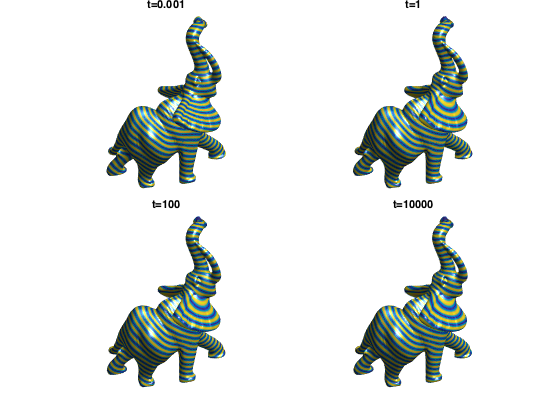
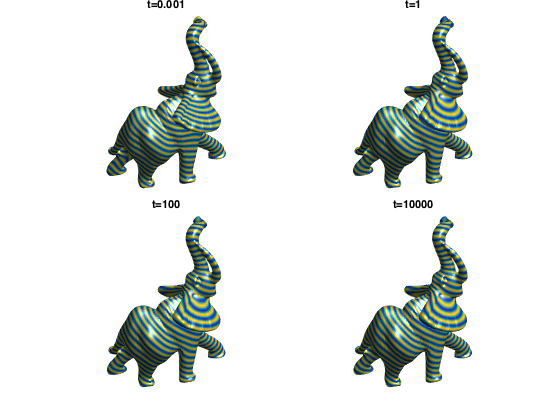
updated poisson geodesic tour

diff --git a/matlab/meshproc_7_geodesic_poisson/index.html b/matlab/meshproc_7_geodesic_poisson/index.html
@@ -146,7 +146,7 @@ To make changes, update the M-file and republish this document.
          <HR>
       </NOSCRIPT>
       <meta name="generator" content="MATLAB 8.4">
-      <meta name="date" content="2014-11-23">
+      <meta name="date" content="2014-11-27">
       <meta name="m-file" content="index">
       <LINK REL="stylesheet" HREF="../style.css" TYPE="text/css">
    </head>
@@ -162,9 +162,9 @@ To make changes, update the M-file and republish this document.
             <ul>
                <li><a href="#1">Installing toolboxes and setting up the path.</a></li>
                <li><a href="#8">Gradient, Divergence and Laplacian on Surfaces</a></li>
-               <li><a href="#25">Heat Diffusion and Time Stepping</a></li>
-               <li><a href="#32">Geodesic in Heat Method</a></li>
-               <li><a href="#43">Bibliography</a></li>
+               <li><a href="#30">Heat Diffusion and Time Stepping</a></li>
+               <li><a href="#37">Geodesic in Heat Method</a></li>
+               <li><a href="#48">Bibliography</a></li>
             </ul>
          </div>
          <h2>Installing toolboxes and setting up the path.<a name="1"></a></h2>
@@ -209,8 +209,10 @@ axis(<span class="string">'tight'</span>);
          </p>
          <p>Callback to get the coordinates of all the vertex of index \(i=1,2,3\) in all faces.</p><pre class="codeinput">XF = @(i)X(:,F(i,:));
 </pre><p>Compute un-normalized normal through the formula \(e_1 \wedge e_2 \) where \(e_i\) are the edges.</p><pre class="codeinput">Na = cross( XF(2)-XF(1), XF(3)-XF(1) );
-</pre><p>Compute the area of each face as half the norm of the cross product.</p><pre class="codeinput">A = sqrt( sum( Na.^2 ) )/2;
-</pre><p>Compute the set of unit-norm normals to each face.</p><pre class="codeinput">N = Na ./ repmat(2*A, [3 1]);
+</pre><p>Compute the area of each face as half the norm of the cross product.</p><pre class="codeinput">amplitude = @(X)sqrt( sum( X.^2 ) );
+A = amplitude(Na)/2;
+</pre><p>Compute the set of unit-norm normals to each face.</p><pre class="codeinput">normalize = @(X)X ./ repmat(amplitude(X), [3 1]);
+N = normalize(Na);
 </pre><p>Populate the sparse entries of the matrices for the operator implementing \( \sum_{i \in f} u_i (N_f \wedge e_i) \).</p><pre class="codeinput">I = []; J = []; V = []; <span class="comment">% indexes to build the sparse matrices</span>
 <span class="keyword">for</span> i=1:3
     <span class="comment">% opposite edge e_i indexes</span>
@@ -224,24 +226,53 @@ axis(<span class="string">'tight'</span>);
     V = [V, wi];
 <span class="keyword">end</span>
 </pre><p>Sparse matrix with entries \(1/(2A_f)\).</p><pre class="codeinput">dA = spdiags(1./(2*A(:)),0,m,m);
-</pre><p>Compute each \(\nabla_s\) matrix.</p><pre class="codeinput">G = {};
+</pre><p>Compute gradient.</p><pre class="codeinput">GradMat = {};
 <span class="keyword">for</span> k=1:3
-    G{k} = dA*sparse(I,J,V(k,:),m,n);
+    GradMat{k} = dA*sparse(I,J,V(k,:),m,n);
 <span class="keyword">end</span>
-</pre><p>Grad and div operators.</p><pre class="codeinput">Grad = @(u)[G{1}*u, G{2}*u, G{3}*u]';
-Div = @(q)G{1}'*q(1,:)' + G{2}'*q(2,:)' + G{3}'*q(3,:)';
-</pre><p>Laplacian matrix</p><pre class="codeinput">Delta = G{1}'*G{1} + G{2}'*G{2} + G{3}'*G{3};
+</pre><p>\(\nabla\) gradient operator.</p><pre class="codeinput">Grad = @(u)[GradMat{1}*u, GradMat{2}*u, GradMat{3}*u]';
+</pre><p>Compute divergence matrices as transposed of grad for the face area inner product.</p><pre class="codeinput">dAf = spdiags(2*A(:),0,m,m);
+DivMat = {GradMat{1}'*dAf, GradMat{2}'*dAf, GradMat{3}'*dAf};
+</pre><p>Div operator.</p><pre class="codeinput">Div = @(q)DivMat{1}*q(1,:)' + DivMat{2}*q(2,:)' + DivMat{3}*q(3,:)';
+</pre><p>Laplacian operator as the composition of grad and div.</p><pre class="codeinput">Delta = DivMat{1}*GradMat{1} + DivMat{2}*GradMat{2} + DivMat{3}*GradMat{3};
+</pre><p>Cotan of an angle between two vectors.</p><pre class="codeinput">cota = @(a,b)cot( acos( dot(normalize(a),normalize(b)) ) );
+</pre><p>Compute cotan weights Laplacian.</p><pre class="codeinput">I = []; J = []; V = []; <span class="comment">% indexes to build the sparse matrices</span>
+Ia = []; Va = []; <span class="comment">% area of vertices</span>
+<span class="keyword">for</span> i=1:3
+    <span class="comment">% opposite edge e_i indexes</span>
+    s = mod(i,3)+1;
+    t = mod(i+1,3)+1;
+    <span class="comment">% adjacent edge</span>
+    ctheta = cota(XF(s)-XF(i), XF(t)-XF(i));
+    <span class="comment">% ctheta = max(ctheta, 1e-2); % avoid degeneracy</span>
+    <span class="comment">% update the index listing</span>
+    I = [I, F(s,:), F(t,:)];
+    J = [J, F(t,:), F(s,:)];
+    V = [V, ctheta, ctheta];
+    <span class="comment">% update the diagonal with area of face around vertices</span>
+    Ia = [Ia, F(i,:)];
+    Va = [Va, A];
+<span class="keyword">end</span>
+<span class="comment">% Aread diagonal matrix</span>
+Ac = sparse(Ia,Ia,Va,n,n);
+<span class="comment">% Cotan weights</span>
+Wc = sparse(I,J,V,n,n);
+<span class="comment">% Laplacian with cotan weights.</span>
+DeltaCot = spdiags(full(sum(Wc))', 0, n,n) - Wc;
+</pre><p>Check that the Laplacian with cotan weights is actually equal to the composition of divergence and gradient.</p><pre class="codeinput">fprintf(<span class="string">'Should be 0: %e\n'</span>, norm(Delta-DeltaCot, <span class="string">'fro'</span>)/norm(Delta, <span class="string">'fro'</span>));
+</pre><pre class="codeoutput">Should be 0: 1.604879e-10
 </pre><p>Display a function \(f\) on the mesh.</p><pre class="codeinput">f = X(2,:);
 options.face_vertex_color = f(:);
 clf; plot_mesh(X,F,options);
 axis(<span class="string">'tight'</span>);
 colormap <span class="string">parula(256)</span>;
-</pre><img vspace="5" hspace="5" src="index_02.png"> <p>Display its Laplacian.</p><pre class="codeinput">g = clamp(Delta*f(:), -50, 50);
+</pre><img vspace="5" hspace="5" src="index_02.png"> <p>Display its Laplacian.</p><pre class="codeinput">g = Delta*f(:);
+g = clamp(g, -3*std(g), 3*std(g));
 options.face_vertex_color = rescale(g);
 clf; plot_mesh(X,F,options);
 axis(<span class="string">'tight'</span>);
 colormap <span class="string">parula(256)</span>;
-</pre><img vspace="5" hspace="5" src="index_03.png"> <h2>Heat Diffusion and Time Stepping<a name="25"></a></h2>
+</pre><img vspace="5" hspace="5" src="index_03.png"> <h2>Heat Diffusion and Time Stepping<a name="30"></a></h2>
          <p>The method developped in <a href="#biblio">[CraneWeischedelWardetzky13]</a> relies on the fact that the level set of the geodesic distance function to a starting point \(i\) agrees with the level set
             of the solution of the heat diffusion when the time of diffusion tends to zero. This fundamental result is proved in <a href="#biblio">[Varadhan67]</a>.
          </p>
@@ -253,23 +284,23 @@ colormap <span class="string">parula(256)</span>;
 </pre><p>Set time \(t\).</p><pre class="codeinput">t = 1000;
 </pre><p>Solve the linear system.</p><pre class="codeinput">delta = zeros(n,1);
 delta(i) = 1;
-u = (speye(n)+t*Delta)\delta;
+u = (Ac+t*Delta)\delta;
 </pre><p>Display this solution.</p><pre class="codeinput">options.face_vertex_color = u;
 clf; plot_mesh(X,F,options);
 axis(<span class="string">'tight'</span>);
 colormap <span class="string">parula(256)</span>;
 </pre><img vspace="5" hspace="5" src="index_04.png"> <p><i>Exercice 1:</i> (<a href="../missing-exo/">check the solution</a>) Solve the heat diffusion equation \[ \frac{\partial g}{\partial t} = -\Delta g \] by performing several implicit time stepping.
          </p><pre class="codeinput">exo1;
-</pre><img vspace="5" hspace="5" src="index_05.png"> <h2>Geodesic in Heat Method<a name="32"></a></h2>
+</pre><img vspace="5" hspace="5" src="index_05.png"> <h2>Geodesic in Heat Method<a name="37"></a></h2>
          <p>The main point of the method <a href="#biblio">[CraneWeischedelWardetzky13]</a> is to retrieve an approximation of the distance function \(\phi\) from the level set of implicit heat diffusion step \(u\).
          </p>
          <p>This is achieved by using the fact that \(\norm{\nabla \phi}=1\), i.e. one should have \[ \nabla \phi \approx -\frac{\nabla
             u}{\norm{\nabla u}}. \] Solving this equation in the least square sense leads to the resolution of a Poisson equation.
          </p>
          <p>Compute the solution \(u\) with explicit time stepping.</p><pre class="codeinput">t = .1;
-u = (speye(n)+t*Delta)\delta;
+u = (Ac+t*DeltaCot)\delta;
 </pre><p>Compute the gradient field.</p><pre class="codeinput">g = Grad(u);
-</pre><p>Normalize it to obtain \[ h = -\frac{\nabla u}{\norm{\nabla u}}. \]</p><pre class="codeinput">h = -g ./ repmat( sqrt(sum(g.^2)), [3 1] );
+</pre><p>Normalize it to obtain \[ h = -\frac{\nabla u}{\norm{\nabla u}}. \]</p><pre class="codeinput">h = -normalize(g);
 </pre><p>Integrate it back by solving \[ \Delta \phi = \text{div}(h).  \]</p><pre class="codeinput">phi = Delta \ Div(h);
 </pre><p>Display.</p><pre class="codeinput">options.face_vertex_color = phi;
 clf; plot_mesh(X,F,options);
@@ -285,13 +316,13 @@ colormap <span class="string">parula(256)</span>;
          </p><pre class="codeinput">exo2;
 </pre><img vspace="5" hspace="5" src="index_08.png"> <p><i>Exercice 3:</i> (<a href="../missing-exo/">check the solution</a>) Compute distances from an increasing number of starting points that are computed using a farthest point sampling.
          </p><pre class="codeinput">exo3;
-</pre><img vspace="5" hspace="5" src="index_09.png"> <h2>Bibliography<a name="43"></a></h2>
+</pre><img vspace="5" hspace="5" src="index_09.png"> <h2>Bibliography<a name="48"></a></h2>
          <p><a name="biblio"></a></p>
          <div>
             <ul>
                <li>[CraneWeischedelWardetzky13] K. Crane, C. Weischedel, M. Wardetzky, <i>Geodesics in heat: A new approach to computing distance based on heat flow</i>, ACM Transactions on Graphics , vol. 32, no. 5, pp. 152:1-152:11, 2013.
                </li>
-               <li>[Varadhan67] S.R.S. Varadhan, <i>On the behavior of the fundamental solution of the heat equation with variable coefficients</i> Communications on Pure and Applied Mathematics 20, 2, 431?455, 1967
+               <li>[Varadhan67] S.R.S. Varadhan, <i>On the behavior of the fundamental solution of the heat equation with variable coefficients</i> Communications on Pure and Applied Mathematics 20, 2, 431-455, 1967
                </li>
             </ul>
          </div>
@@ -401,12 +432,14 @@ Na = cross( XF(2)-XF(1), XF(3)-XF(1) );
 %%
 % Compute the area of each face as half the norm of the cross product.
 
-A = sqrt( sum( Na.^2 ) )/2;
+amplitude = @(X)sqrt( sum( X.^2 ) );
+A = amplitude(Na)/2;
 
 %%
 % Compute the set of unit-norm normals to each face.
 
-N = Na ./ repmat(2*A, [3 1]);
+normalize = @(X)X ./ repmat(amplitude(X), [3 1]);
+N = normalize(Na);
 
 %%
 % Populate the sparse entries of the matrices for the 
@@ -431,23 +464,71 @@ end
 dA = spdiags(1./(2*A(:)),0,m,m); 
 
 %%
-% Compute each \(\nabla_s\) matrix. 
+% Compute gradient.
 
-G = {};
+GradMat = {};
 for k=1:3
-    G{k} = dA*sparse(I,J,V(k,:),m,n);
+    GradMat{k} = dA*sparse(I,J,V(k,:),m,n);
 end
 
 %%
-% Grad and div operators.
+% \(\nabla\) gradient operator.
 
-Grad = @(u)[G{1}*u, G{2}*u, G{3}*u]';
-Div = @(q)G{1}'*q(1,:)' + G{2}'*q(2,:)' + G{3}'*q(3,:)';
+Grad = @(u)[GradMat{1}*u, GradMat{2}*u, GradMat{3}*u]';
 
 %%
-% Laplacian matrix
+% Compute divergence matrices as transposed of grad for the face area inner product.
 
-Delta = G{1}'*G{1} + G{2}'*G{2} + G{3}'*G{3};
+dAf = spdiags(2*A(:),0,m,m); 
+DivMat = {GradMat{1}'*dAf, GradMat{2}'*dAf, GradMat{3}'*dAf};
+
+%%
+% Div operator. 
+
+Div = @(q)DivMat{1}*q(1,:)' + DivMat{2}*q(2,:)' + DivMat{3}*q(3,:)';
+
+%%
+% Laplacian operator as the composition of grad and div. 
+
+Delta = DivMat{1}*GradMat{1} + DivMat{2}*GradMat{2} + DivMat{3}*GradMat{3};
+
+%%
+% Cotan of an angle between two vectors.
+
+cota = @(a,b)cot( acos( dot(normalize(a),normalize(b)) ) );
+
+%%
+% Compute cotan weights Laplacian. 
+
+I = []; J = []; V = []; % indexes to build the sparse matrices
+Ia = []; Va = []; % area of vertices
+for i=1:3
+    % opposite edge e_i indexes
+    s = mod(i,3)+1;
+    t = mod(i+1,3)+1;
+    % adjacent edge
+    ctheta = cota(XF(s)-XF(i), XF(t)-XF(i));
+    % ctheta = max(ctheta, 1e-2); % avoid degeneracy
+    % update the index listing
+    I = [I, F(s,:), F(t,:)];
+    J = [J, F(t,:), F(s,:)]; 
+    V = [V, ctheta, ctheta];
+    % update the diagonal with area of face around vertices
+    Ia = [Ia, F(i,:)];
+    Va = [Va, A]; 
+end
+% Aread diagonal matrix
+Ac = sparse(Ia,Ia,Va,n,n);
+% Cotan weights
+Wc = sparse(I,J,V,n,n);
+% Laplacian with cotan weights.
+DeltaCot = spdiags(full(sum(Wc))', 0, n,n) - Wc;
+
+%%
+% Check that the Laplacian with cotan weights is actually equal to 
+% the composition of divergence and gradient.
+
+fprintf('Should be 0: %e\n', norm(Delta-DeltaCot, 'fro')/norm(Delta, 'fro'));
 
 %%
 % Display a function \(f\) on the mesh.
@@ -461,7 +542,8 @@ colormap parula(256);
 %%
 % Display its Laplacian.
 
-g = clamp(Delta*f(:), -50, 50);
+g = Delta*f(:);
+g = clamp(g, -3*std(g), 3*std(g));
 options.face_vertex_color = rescale(g);
 clf; plot_mesh(X,F,options); 
 axis('tight');
@@ -497,7 +579,7 @@ t = 1000;
 
 delta = zeros(n,1); 
 delta(i) = 1;
-u = (speye(n)+t*Delta)\delta;
+u = (Ac+t*Delta)\delta;
 
 %%
 % Display this solution.
@@ -531,7 +613,7 @@ exo1;
 % Compute the solution \(u\) with explicit time stepping.
 
 t = .1;
-u = (speye(n)+t*Delta)\delta;
+u = (Ac+t*DeltaCot)\delta;
 
 %%
 % Compute the gradient field.
@@ -542,7 +624,7 @@ g = Grad(u);
 % Normalize it to obtain 
 % \[ h = -\frac{\nabla u}{\norm{\nabla u}}. \]
 
-h = -g ./ repmat( sqrt(sum(g.^2)), [3 1] );
+h = -normalize(g);
 
 %%
 % Integrate it back by solving
@@ -585,13 +667,12 @@ exo2;
 
 exo3;
 
-
 %% Bibliography
 % <html><a name="biblio"></a></html>
 
 %%
 % * [CraneWeischedelWardetzky13] K. Crane, C. Weischedel, M. Wardetzky, _Geodesics in heat: A new approach to computing distance based on heat flow_, ACM Transactions on Graphics , vol. 32, no. 5, pp. 152:1-152:11, 2013.
-% * [Varadhan67] S.R.S. Varadhan, _On the behavior of the fundamental solution of the heat equation with variable coefficients_ Communications on Pure and Applied Mathematics 20, 2, 431?455, 1967
+% * [Varadhan67] S.R.S. Varadhan, _On the behavior of the fundamental solution of the heat equation with variable coefficients_ Communications on Pure and Applied Mathematics 20, 2, 431-455, 1967
 
 	
 

diff --git a/about.md b/about.md
@@ -9,7 +9,6 @@ The *Numerical Tours of Signal Processing*, by [Gabriel Peyré](contact/), gathe
 These tours are also progressively being ported to Python.
 The tours are complemented by slides of courses that concentrate on the theory of  signal and image processing.
 
-
 How to use these tours?
 -------------------
 
@@ -19,7 +18,6 @@ you are asked to download and install the required toolboxes  ...
 (there exists three toolboxes: general/signal/graph), that contain many useful 
 helper functions. Each tour alternates between code you can copy/paste in 
 Matlab or Scilab, and exercises you need to solve on your own.
-
 
 How to cite the Numerical Tours
 -------------------
